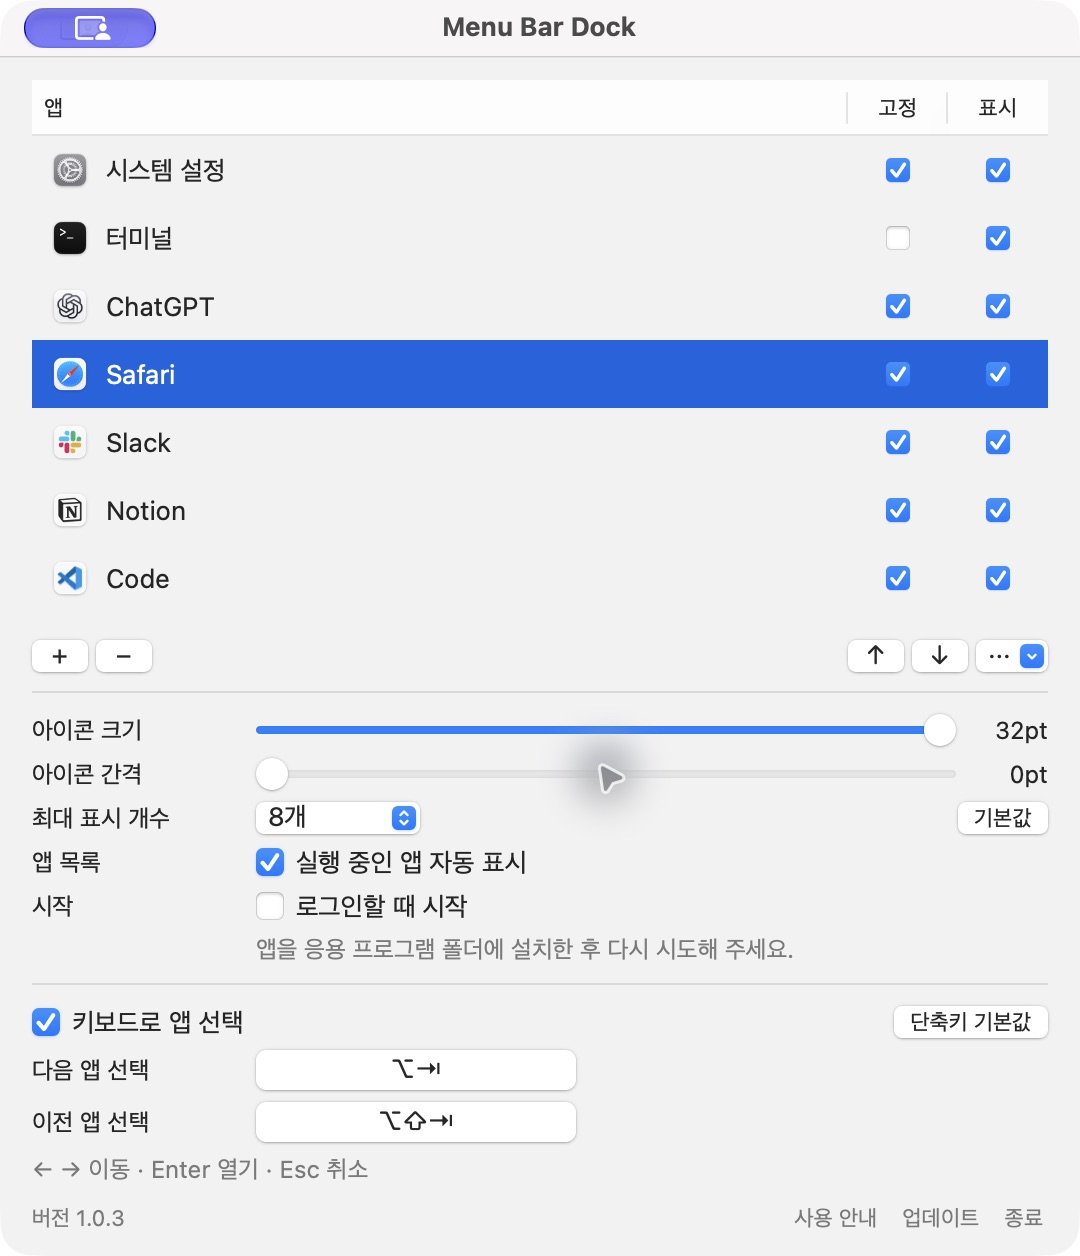
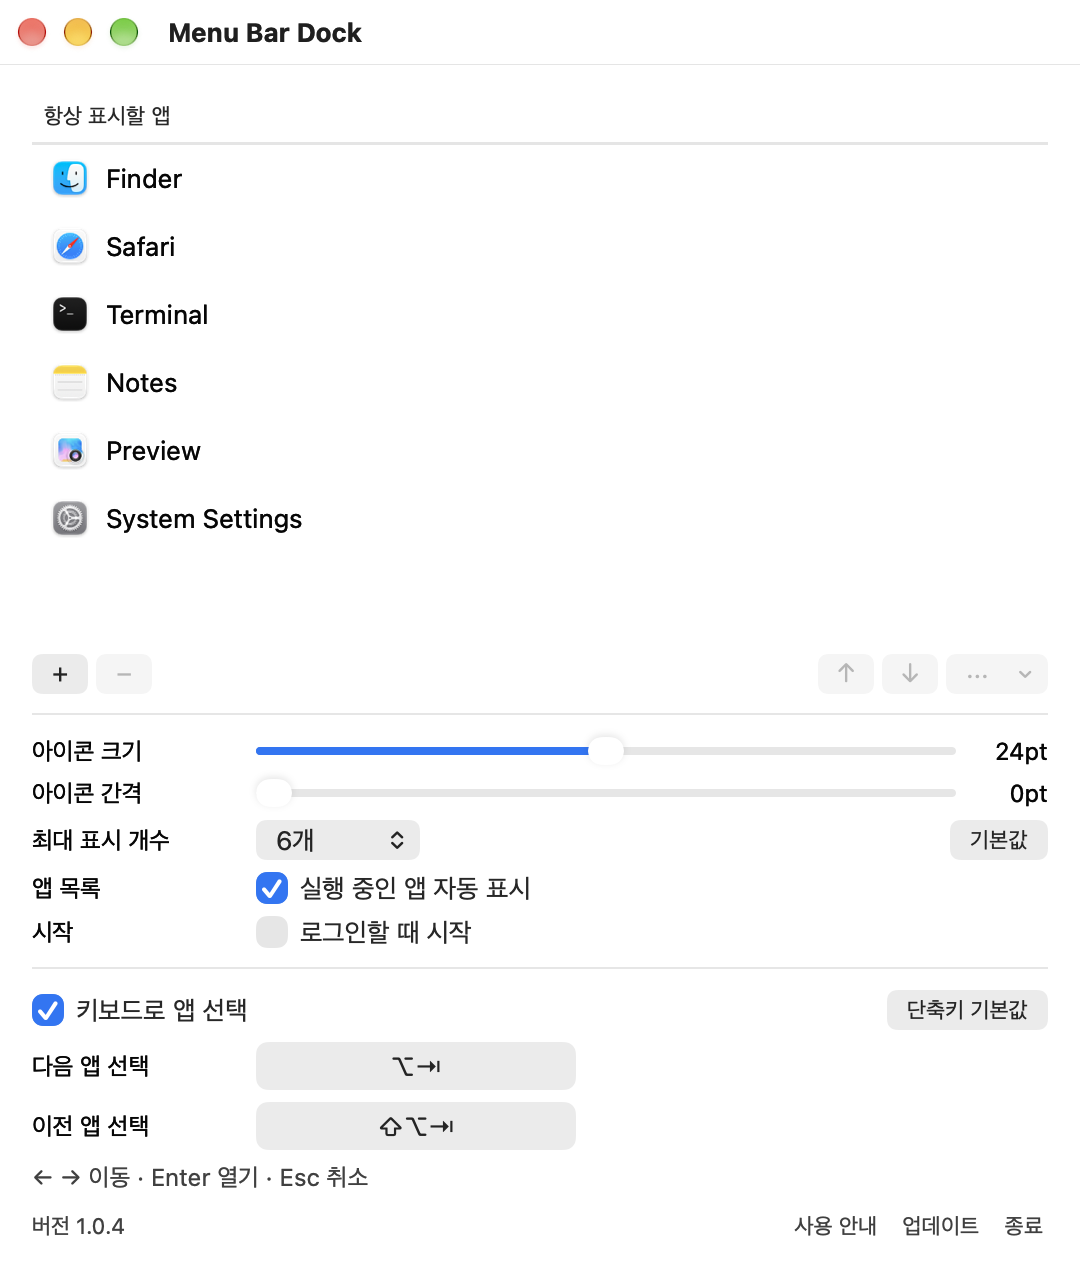
docs: explain saved app ordering and refresh settings screenshots

diff --git a/docs/module-contracts.md b/docs/module-contracts.md
@@ -3,11 +3,13 @@
 ## DockDomain (Foundation만 사용)
 
 - `AppID`: String rawValue, Hashable/Codable/Sendable, 기본 생성자는 UUID. `init(rawValue:)`.
-- `AppEntry`: Identifiable/Codable/Equatable/Sendable. public var `id: AppID`, `name: String`, `bundleIdentifier: String?`, `bundlePath: String`, `bookmarkData: Data?`, `isPinned: Bool`, `isExcluded: Bool`, `lastSeen: Date`.
+- `AppEntry`: Identifiable/Codable/Equatable/Sendable. public var `id: AppID`, `name: String`, `bundleIdentifier: String?`, `bundlePath: String`, `bookmarkData: Data?`, `isPinned: Bool`, `isExcluded: Bool`, `lastSeen: Date`. `isPinned`·`isExcluded`는 기존 저장 파일과 호환하기 위해 유지하며, UI에서는 등록 목록으로 표현한다.
 - `DockPreferences`: Codable/Equatable/Sendable. public var `iconSize: Double = 24`, `slotWidth: Double = 24`, `maxVisibleApps: Int = 6`, `showsRunningApps: Bool = true`, `shortcutEnabled: Bool = true`. 검증/정규화 제공. `slotWidth >= iconSize`를 보장한다.
 - `DockConfiguration`: Codable/Equatable/Sendable. `schemaVersion: Int`, `apps: [AppEntry]`, `order: [AppID]`, `preferences: DockPreferences`, `removedApps: [AppEntry]`, `knownSystemDockPaths: [String]`. 기본 생성자. 중복·범위 정규화.
 - `DockItem`: Equatable/Sendable/Identifiable. `app: AppEntry`, `isRunning: Bool`, id는 app.id.
-- `DockCatalog`: 값 타입 aggregate. `configuration: DockConfiguration`, `init(configuration:)`, `upsert(AppEntry)`, `pin(AppID, Bool)`, `exclude(AppID, Bool)`, `remove(AppID, suppressRediscovery: Bool = true)`, `upsertRestoring(AppEntry)`, `isRemoved(AppEntry)`, `move(fromOffsets: IndexSet, toOffset: Int)`, `updatePreferences(DockPreferences)`, `orderedApps`, `visibleItems(runningIDs: Set<AppID>)`. 순서 불변식 보장.
+- `DockCatalog`: 값 타입 aggregate. `configuration: DockConfiguration`, `init(configuration:)`, `upsert(AppEntry)`, `save(AppID)`, `remove(AppID, suppressRediscovery: Bool = true)`, `upsertRestoring(AppEntry) -> AppID?`, `isRemoved(AppEntry)`, `moveSaved(fromOffsets: IndexSet, toOffset: Int)`, `updatePreferences(DockPreferences)`, `orderedApps`, `savedApps`, `visibleItems(runningIDs: Set<AppID>)`.
+- `orderedApps`는 자동 감지 이력을 포함한 전체 저장 순서, `savedApps`는 등록했고 제외되지 않은 항목의 부분 목록이다. `visibleItems`는 미등록 실행 앱을 앞에, 등록 앱을 뒤에 배치한다. 각 그룹 안에서 저장 순서를 보존하고 같은 ID를 중복 표시하지 않는다.
+- `save`는 새로 등록한 항목을 등록 목록 끝에 추가하며 이미 등록한 항목의 순서는 유지한다. `moveSaved`의 인덱스는 `savedApps` 기준으로 해석하고 미등록 이력의 상대 순서를 보존한다. 기존 `pin`·`exclude`·전체 목록 `move`는 내부 저장 호환과 도메인 연산으로 남으며 새 설정 UI의 명령으로 사용하지 않는다.
 - `SwitcherSession`: 순서/선택만 관리. `init(ids: [AppID], currentID: AppID?, direction: Int)`, `selectedID`, `ids`, `move(Int)`, `reconcile(validIDs: Set<AppID>)`.
 
 ## DockPersistence
@@ -45,9 +47,13 @@ AppKit/Carbon 경계다. 다른 로컬 target에 의존하지 않는다.
 
 ## UI와 앱 조립
 
-`DockPresentationModel`은 items/apps/preferences/login/notice/단축키 표시 문자열과 이미지 공급자를 제공한다. `DockUIAction`을 `ApplicationController`로 보내 유스케이스를 수행한다. `StatusItemController`, `SwitcherController`, `SettingsWindowController`는 이 모델만 읽는다.
+`DockPresentationModel`은 items/apps/preferences/login/notice/단축키 표시 문자열과 이미지 공급자를 제공한다. `items`는 `visibleItems`의 최종 표시 목록이며, 설정용 `apps`는 `savedApps` 투영이다. `DockUIAction`을 `ApplicationController`로 보내 유스케이스를 수행한다. `StatusItemController`, `SwitcherController`, `SettingsWindowController`는 이 모델만 읽는다.
 
-`WorkspaceCatalogReconciler`는 관찰 스냅샷을 catalog에 병합하고 경로 이동 시 bookmark로 기존 ID를 복구한다. `ReleaseChecker` actor는 사용자 요청 때만 HTTPS API를 읽고 검증된 릴리스 페이지를 반환한다. `ApplicationMenu`는 표준 AppKit 앱·편집·윈도우 메뉴를 구성한다.
+설정은 **항상 표시할 앱** 단일 목록을 제공한다. `+`와 아이콘 메뉴의 **목록에 추가**는 등록 명령으로, 행 드래그·위아래 이동은 `moveSaved`로 연결한다. 등록 앱의 **목록에서 제거**와 설정의 `−`는 `remove`를 호출하여 항목·순서를 제거하고 삭제 기록을 남긴다. 자동 감지와 Dock 반영은 삭제를 되돌리지 않으며 명시적인 `+`는 `upsertRestoring`으로 복원한다. 아이콘 메뉴와 설정에 고정·표시·제외 체크를 노출하지 않는다.
+
+`WorkspaceCatalogReconciler`는 관찰 스냅샷을 catalog에 병합하고 경로 이동 시 bookmark로 기존 ID를 복구한다. 삭제한 앱의 이동도 bookmark로 삭제 기록에 반영해 재실행 이벤트가 같은 앱을 다시 추가하지 않게 한다. Dock 자동 가져오기에도 같은 삭제 기록 복구를 적용한다.
+
+`SavedAppRegistrar.register(_:replacing:in:) throws`는 앱 추가와 위치 재지정의 등록 규칙을 조립 계층에서 공유한다. 재지정한 앱이 이미 임시 실행 항목으로 감지돼 있다면 기존 등록 ID와 순서를 유지해 병합한다. `ReleaseChecker` actor는 사용자 요청 때만 HTTPS API를 읽고 검증된 릴리스 페이지를 반환한다. `ApplicationMenu`는 표준 AppKit 앱·편집·윈도우 메뉴를 구성한다.
 
 전체 소스 계약은 Swift compiler와 대응 Tests target으로 검증한다. 과거 설계의 AppStore/reducer/effect 명칭 대신 현재 구현은 ApplicationController + DockCatalog의 값 연산을 사용한다.
 
@@ -59,4 +65,4 @@ AppKit/Carbon 경계다. 다른 로컬 target에 의존하지 않는다.
 - `SearchResultOpener`: 결과를 실행 직전에 다시 검증한다. 앱은 기존 resolver/launcher, 파일·폴더는 `NSWorkspace`를 사용한다.
 - `SwitcherController`: 네이티브 검색 입력과 100ms 입력 지연 처리, 세션별 요청 격리, 앱 선택 복원. 검색 결과는 `DockUIAction.openSearchResult`로 실행하며 catalog에 추가하지 않는다.
 
-`SystemDockReader.applicationURLs()`는 macOS Dock을 변경하지 않고 Finder와 고정 앱의 로컬 URL을 순서대로 읽는다. 조립 계층의 `SystemDockCatalogImporter`가 기존 ID·순서·제외를 유지해 고정 목록에 합친다. `SystemDockMonitor.start(onChange:)`는 파일 변경 감시를 시작하며 실패 시 오류를 던진다. `stop()`은 감시와 대기 작업을 정리한다. 삭제 기록과 기존 Dock 경로는 `removedApps`·`knownSystemDockPaths`에 저장한다.
+`SystemDockReader.applicationURLs()`는 macOS Dock을 변경하지 않고 Finder와 고정 앱의 로컬 URL을 순서대로 읽는다. 조립 계층의 `SystemDockCatalogImporter`는 기존 ID·순서·제외·삭제를 유지하며 처음 발견한 Dock 앱만 등록 목록 끝에 합친다. `SystemDockMonitor.start(onChange:)`는 파일 변경 감시를 시작하며 실패 시 오류를 던진다. `stop()`은 감시와 대기 작업을 정리한다. 삭제 기록과 기존 Dock 경로는 `removedApps`·`knownSystemDockPaths`에 저장한다.

diff --git a/docs/verification/2026-09-28-saved-apps.md b/docs/verification/2026-09-28-saved-apps.md
@@ -1,0 +1,33 @@
+# 등록 목록과 실행 앱 분리 검증
+
+설정은 **항상 표시할 앱** 한 열로 구성한다. 추가한 앱은 종료 후에도 남고, 드래그·위아래 이동으로 정한 순서를 유지한다. 미등록 실행 앱은 이 목록 앞에 표시하며 등록 앱과 중복되지 않는다.
+
+## 확인한 경계
+
+- 설정 행 인덱스와 전체 catalog 인덱스가 달라도 등록 앱만 이동한다. 임시·숨김 이력의 위치를 보존하며 모든 단일 이동 조합과 다중 이동을 검사했다.
+- 임시 앱 등록은 목록 끝에 추가한다. 반복 추가는 ID와 순서를 유지한다.
+- `−`와 아이콘 메뉴의 제거 명령은 삭제 기록을 남긴다. 실행·Dock 변경·재시작으로 복원하지 않으며, 명시적 `+`로 복원한다.
+- 삭제한 앱을 실행 중 이동해도 새 경로를 발견한 배치에서 bookmark를 복구한다. 이미 알려진 삭제 경로는 다시 조회하지 않는다.
+- 위치 재지정 대상이 임시 실행 항목이면 원래 등록 ID·순서에 합친다. 다른 등록 앱과 충돌하거나 선택 도중 원래 행이 삭제되면 기존 상태를 보존하고 오류를 반환한다.
+- 이전 `isPinned`·`isExcluded`와 삭제 기록은 저장 호환을 위해 유지한다. 저장 schema를 변경하지 않는다.
+
+## 자동 검증
+
+`./scripts/check.sh` 통과:
+
+| 검사 | 결과 |
+| --- | --- |
+| Swift 테스트 | 185개 통과: UI·조립 61, 단축키 15, 플랫폼 48, 저장 29, 도메인 32 |
+| 릴리스 도구 | 78개 통과 |
+| 실제 상태 버튼 입력 | 독립 버튼 8개의 왼클릭·우클릭·Control 클릭·접근성 press 통과 |
+| 아이콘 렌더링 | 16·20·24·28·32pt의 실제 픽셀 면적 증가 확인 |
+| 실제 슬라이더 추적 | 크기·간격 각각 17회, 트랙 밖 이동과 최종 저장 확인 |
+| 검색 입력 | 포커스·방향키·Enter·Esc·Option+Tab·한글 조합·취소와 늦은 응답 검사 통과 |
+
+설정 이미지도 제품 뷰로 다시 생성해 단일 열과 버전 표시를 확인했다. 개인 설정 대신 공개된 시스템 앱 6개를 사용한다.
+
+```sh
+./scripts/check-settings-input.sh --snapshot docs/assets/settings.png
+```
+
+공개된 v1.0.3 릴리스와 첨부 파일은 변경하지 않는다. [이전 설정 이미지](../assets/settings-1.0.3.png)는 해당 버전의 검증 기록에 보존한다.

diff --git a/CHANGELOG.md b/CHANGELOG.md
@@ -1,9 +1,13 @@
 # 변경 기록
 
-## 미배포
+## 미배포 (1.0.4)
 
+- 설정의 고정·표시 체크 열을 제거하고 **항상 표시할 앱** 목록으로 통합. 추가한 앱은 종료 후에도 표시하며 드래그·위아래 이동으로 순서 저장.
+- 미등록 실행 앱을 앞쪽에, 등록 앱을 뒤쪽에 지정 순서대로 표시하고 중복 제거. 실행·활성화 이벤트로 상대 순서를 바꾸지 않음.
+- 아이콘 메뉴를 **목록에 추가**·**목록에서 제거**로 단순화. 제거한 앱은 자동 감지로 복원하지 않으며 `+`로 복원. 새 macOS Dock 앱만 등록 목록 끝에 추가하고 기존 제외·삭제 기록 유지.
+- 앱 위치를 다시 지정할 때 이미 감지된 임시 항목을 기존 등록 ID·순서로 병합. 삭제한 앱이 이동한 뒤 재실행돼도 bookmark로 삭제 기록을 갱신하여 실행 앱·Dock 자동 감지에서 재추가 방지.
 - Option+Tab 선택 창에 Spotlight 인덱스 기반 앱·파일·폴더 이름 검색 추가. 검색어가 없으면 기존 앱 전환 유지.
-- 네이티브 입력창의 한글 조합·편집을 유지하고, 검색어 변경·창 닫기 시 이전 검색 취소. 검색 결과는 메뉴 독에 고정하지 않음.
+- 네이티브 입력창의 한글 조합·편집을 유지하고, 검색어 변경·창 닫기 시 이전 검색 취소. 검색 결과는 항상 표시할 앱 목록에 추가하지 않음.
 - GitHub 릴리스 생성·업로드·공개 후 조회 반영 지연을 제한적으로 재확인하고 기존 파일 보존.
 
 ## 1.0.3

diff --git a/AGENTS.md b/AGENTS.md
@@ -8,6 +8,8 @@
 - 주석과 프로젝트 문서는 한국어로 작성한다. 식별자는 일관된 영어로 작성한다.
 - 실행 중 표시 및 타 앱 창의 디스플레이 간 이동을 추가하지 않는다.
 - 앱 순서는 실행/활성화 이벤트로 바뀌면 안 된다. 메뉴 막대의 빈 슬롯을 예약하지 않는다.
+- 설정은 `savedApps`에 해당하는 **항상 표시할 앱** 목록만 보여 준다. 고정·표시 체크 열을 추가하지 않는다. 미등록 실행 앱은 앞쪽에, 등록 앱은 뒤쪽에 저장한 순서대로 표시하고 중복을 없앤다.
+- 명시적으로 등록한 앱은 목록 끝에 추가하고 `moveSaved`는 등록 목록의 부분 인덱스로 이동한다. `−`와 **목록에서 제거**는 삭제 기록을 남겨 자동 재발견을 막으며 `+`로 복원한다. 기존 `isPinned`·`isExcluded`는 저장 호환을 위한 내부 필드로 유지한다.
 - 부작용 경계에서 실패를 처리한다. 강제 unwrap, 무한 재시도, 이벤트 polling을 피한다.
 - 도메인 불변식·저장 복구·실제 입력 동작을 테스트한다. 구현 내용을 그대로 반복하는 테스트는 피한다.
 - 변경한 범위의 검증 후 단계별 커밋·푸시한다. 다른 작업자의 변경을 되돌리지 않는다.

diff --git a/docs/verification/1.0.3.md b/docs/verification/1.0.3.md
@@ -46,9 +46,9 @@
 
 ## 화면과 검증 범위
 
-![실제 실행 앱의 단일 설정 창](../assets/settings.png)
+![실제 실행 앱의 단일 설정 창](../assets/settings-1.0.3.png)
 
-`settings.png`는 Release 앱 캡처다. `menu-bar.png`는 실제 시스템 버튼을 각각 렌더한 뒤 나란히 배치한 참고 이미지이며, 데스크톱 메뉴 막대 전체 캡처가 아니다. 선택 패널은 같은 표시 대상 모델을 사용하며 메뉴 막대 개수 제한과 별개다.
+`settings-1.0.3.png`는 해당 버전 Release 앱 캡처다. `menu-bar.png`는 실제 시스템 버튼을 각각 렌더한 뒤 나란히 배치한 참고 이미지이며, 데스크톱 메뉴 막대 전체 캡처가 아니다. 선택 패널은 같은 표시 대상 모델을 사용하며 메뉴 막대 개수 제한과 별개다.
 
 Dock 변경 감시는 임시 plist 파일에서 검사했고 사용자의 macOS Dock 설정은 변경하지 않았다. 물리적 다중 디스플레이의 비활성 외관, 재부팅 후 로그인 시작, 다른 macOS 버전, 장시간 에너지 측정은 이번 검증으로 완료됐다고 주장하지 않는다. 로컬 패키지는 ad-hoc 서명이며 Developer ID 서명·공증을 대신하지 않는다.
 

diff --git a/docs/assets/README.md b/docs/assets/README.md
@@ -1,7 +1,8 @@
 # 문서 이미지
 
 - `menu-bar-hero.png`: README 대표 이미지. 2026-09-28, macOS 27에서 실행한 Menu Bar Dock 1.0.3의 실제 메뉴 막대 영역을 캡처했다. 오른쪽에는 macOS의 일반 상태 항목도 보인다. 1210×78px 원본을 605px 너비로 표시해 Retina 해상도를 유지한다.
-- `settings.png`: 1.0.3의 실제 단일 설정 창. README에서는 접힌 영역 안에서 540px 너비로 표시한다.
+- `settings.png`: 1.0.4의 실제 설정 뷰를 시스템 앱 6개로 렌더링한 이미지. README에서는 접힌 영역 안에서 540px 너비로 표시한다. `./scripts/check-settings-input.sh --snapshot docs/assets/settings.png`로 다시 생성한다. 개인 설정이나 화면 배경을 포함하지 않는다.
+- `settings-1.0.3.png`: 1.0.3 검증 기록에 사용한 이전 단일 설정 창 캡처.
 - `switcher.png`: 앱 선택 패널 캡처. README의 단축키 설명에서 416px 너비로 표시한다.
 - `menu-bar.png`: 입력 검증 도구가 실제 시스템 버튼을 개별 렌더해 나란히 배치한 참고 이미지. 데스크톱 메뉴 막대 전체 캡처와 구별한다.
 - `appearance.png`: 1.0.2의 표시 설정 기록.
